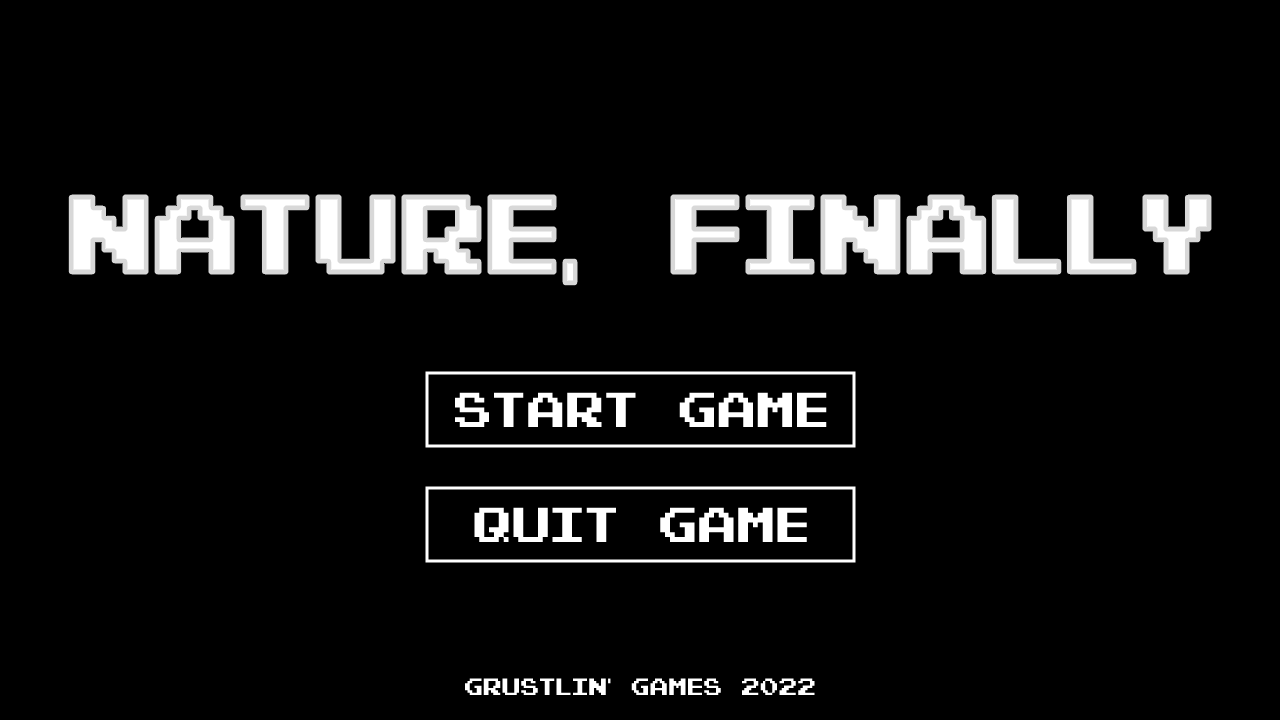
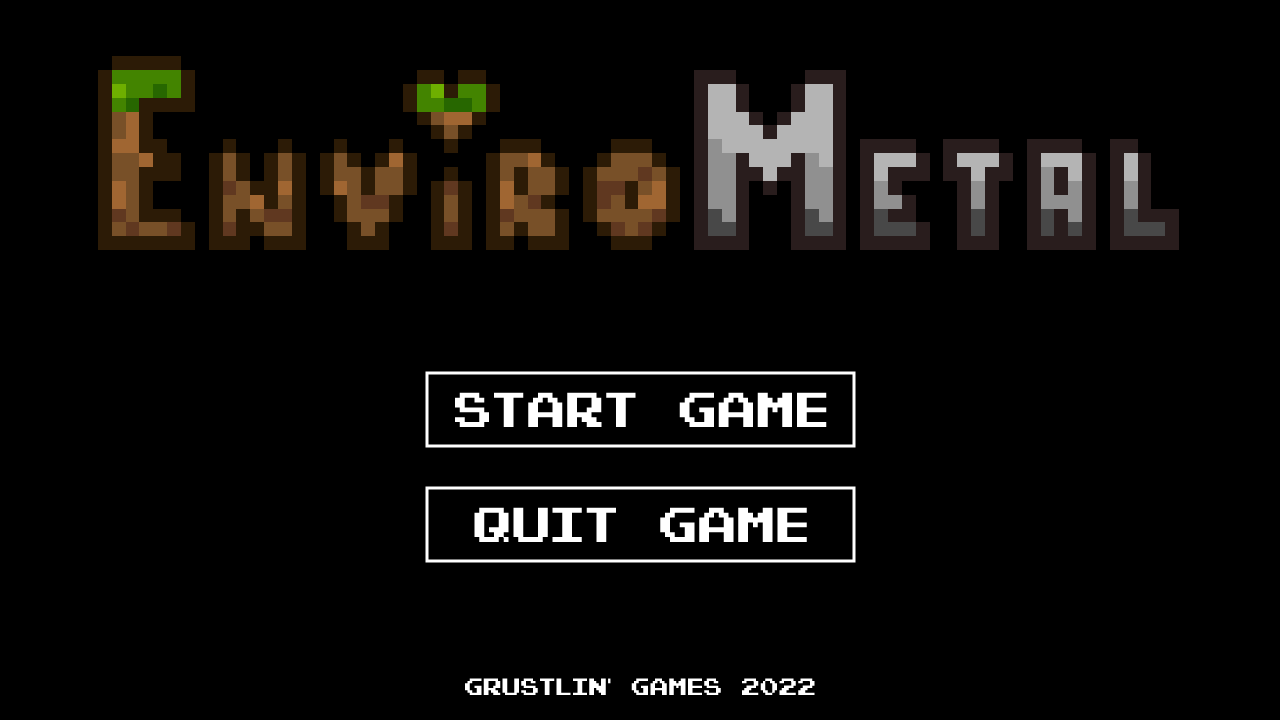
Implemented health bar and changed title screen

Changed region(s): [[0.0312, 0.0611, 0.9688, 0.3972]]

diff --git a/Project/Scripts/Player.cs b/Project/Scripts/Player.cs
@@ -31,8 +31,9 @@ public class Player : KinematicBody2D
 
 	[Signal] delegate void PlayerKilled();
 
-	[Export] public float MAX_HEALTH = 1;
+	[Export] public float MAX_HEALTH = 5;
 	public float CURRENT_HEALTH;
+	private AnimatedSprite healthSprite;
 
 	[Export] public float JUMP_HEIGHT = 145; //pixels
 	[Export] public float TIME_IN_AIR = 0.2F; //honestly no idea
@@ -88,6 +89,10 @@ public class Player : KinematicBody2D
 		animatedSprite = GetNode<AnimatedSprite>("AnimatedSprite");
 		crouchingSprite = GetNode<Sprite>("CrouchingSprite");
 		slidingSprite = GetNode<Sprite>("SlidingSprite");
+		
+		healthSprite = GetNode<AnimatedSprite>("/root/LevelHolder/UI/HealthBar");
+		healthSprite.Frame = 5;
+		healthSprite.Playing = false;
 
 		normalCollisionBoxes = new CollisionShape2D[]
 		{
@@ -609,6 +614,7 @@ public class Player : KinematicBody2D
 
 	public void KillPlayer()
 	{
+		healthSprite.Frame = 0;
 		ClearSpritesAndHitboxes();
 		ActivateNormalSpriteAndHitboxes();
 		animatedSprite.Play("health_death");
@@ -621,11 +627,13 @@ public class Player : KinematicBody2D
 	public void HealPlayer()
 	{
 		CURRENT_HEALTH = MAX_HEALTH;
+		healthSprite.Frame = 5;
 	}
 
 	public void HurtPlayer()
 	{
 		CURRENT_HEALTH--;
+		healthSprite.Frame = (int)CURRENT_HEALTH;
 		if(CURRENT_HEALTH == 0)
 		{
 			KillPlayer();

diff --git a/Project/Scripts/FlyingEnemy.cs b/Project/Scripts/FlyingEnemy.cs
@@ -1,9 +1,6 @@
 using Godot;
 using System;
 
-using Godot;
-using System;
-
 public class FlyingEnemy : KinematicBody2D
 {
 
